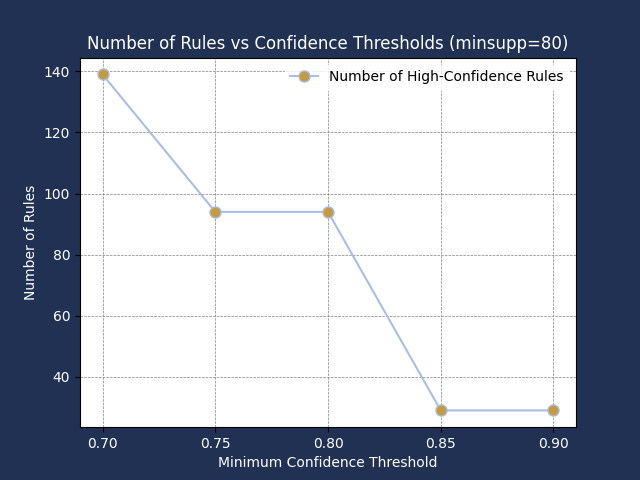
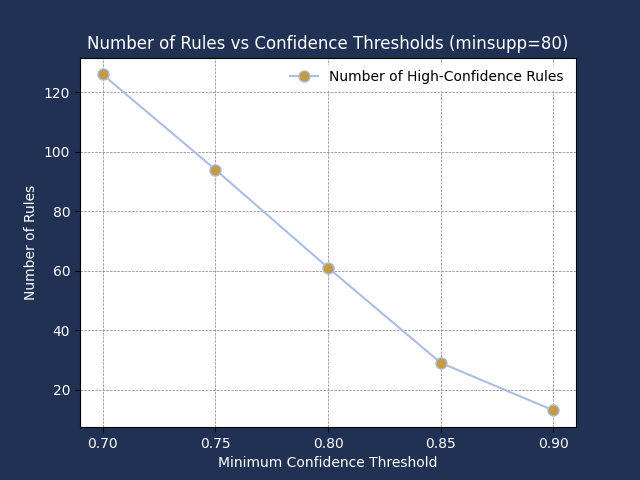
updated output files for q4

diff --git a/apriori_algorithm.py b/apriori_algorithm.py
@@ -112,7 +112,7 @@ class Apriori:
 
                         # Compute confidence: S(itemset) / S(lhs)
                         confidence = support_count / lhs_support if lhs_support else 0
-                        confidence = round(confidence, 1)
+                        confidence = round(confidence, 3)
                         
                         # Add rule if confidence meets the threshold 
                         if confidence >= self.min_confidence:
@@ -226,9 +226,9 @@ def generate_summary_report(minsuppc, minconf, input_file_name, number_of_transa
         for lhs, rhs, conf in highest_confidence_rules:
             file.write(f"{', '.join(lhs)} -> {', '.join(rhs)} | Confidence: {conf}\n")
 
-        file.write(f"The rules with the highest lift ({highest_lift:.1f}):\n")
+        file.write(f"The rules with the highest lift ({highest_lift:.3f}):\n")
         for lhs, rhs, conf, lift in highest_lift_rules:
-            file.write(f"{', '.join(lhs)} -> {', '.join(rhs)} | Lift: {lift:.1f}\n")
+            file.write(f"{', '.join(lhs)} -> {', '.join(rhs)} | Lift: {lift:.3f}\n")
 
         file.write(f"Time in seconds to find the frequent itemsets: {frequent_itemset_time:.4f}\n")
         file.write(f"Time in seconds to find the confident rules: {confident_rules_time:.4f}\n")
@@ -309,9 +309,9 @@ def execute_program(minsup, minconf, file_name):
     #apriori.print_association_rules()
 
     #create output files
-    generate_frequent_itemsets_file(frequent_itemsets, len(transactions), "test1.txt")
-    generate_association_rules_file(frequent_itemsets, len(transactions), rules, "test2.txt")
-    generate_summary_report(min_support, min_confidence, file_name, len(transactions), transactions, frequent_itemsets, rules, frequent_itemsets_time, rules_time, "test3.txt")
+    #generate_frequent_itemsets_file(frequent_itemsets, len(transactions), "test1.txt")
+    #generate_association_rules_file(frequent_itemsets, len(transactions), rules, "test2.txt")
+    generate_summary_report(min_support, min_confidence, file_name, len(transactions), transactions, frequent_itemsets, rules, frequent_itemsets_time, rules_time, "info11.txt")
     print("OUTPUT FILES WERE SUCCESSFULLY GENERATED")
     
 

diff --git a/README.md b/README.md
@@ -3,3 +3,9 @@
 How to run it:
 
 python3 apriori_algorithm.py 3 0.7 small.txt
+
+We have to submit:
+generate rule file
+plot file
+report
+3 output files
